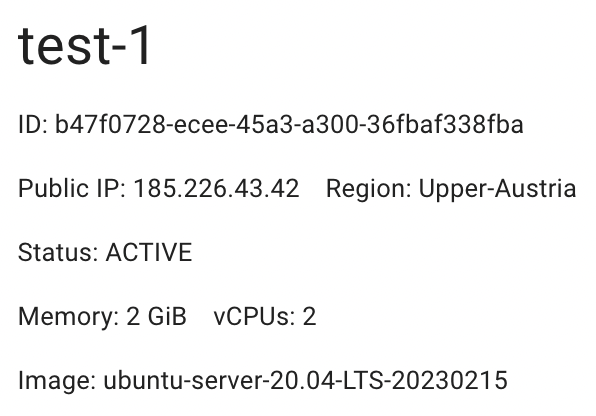
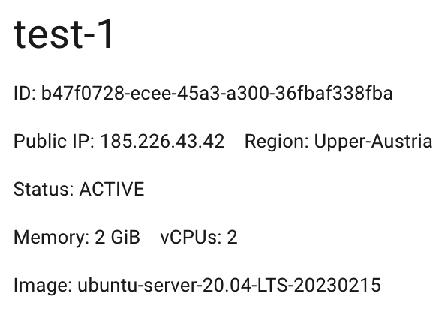
fix img sizes

diff --git a/content/products/compute/virtual-machines.md b/content/products/compute/virtual-machines.md
@@ -52,8 +52,8 @@ To create new Linux VM, do the following:
   - *Key pair* - this field is necessary only for Linux VMs; select here the SSH Key that was previously created on the *SSH Keys page* or create a new one, which you will use to connect to the Linux VM;  
     if you have only one created SSH Key, it will be pre-selected by default;  
   - *Networks* - choose one or more networks;  
-    by default, public network is pre-selected;  
-  - *Firewalls*- choose what collection of network access rules will control the traffic to this VM; 
+    by default, "public" network is pre-selected;  
+  - *Firewalls*- choose what collection of network access rules will control the traffic to this VM;    
     by default, "default" Firewall is pre-selected;  
     default Firewall allows access to the Internet from the VMs, but denies almost all access on the VMs from outside, except for objects belonging to the same default Firewall.  
       >**NOTE:** To connect to the selected **Linux Virtual Machine** remotely via SSH, you need to add an additional Firewall with a rule, that will allow incoming traffic to TCP port 22 (like shown below) - to find additional information about this, please see the article **[Access Linux VM](https://docs.ventuscloud.eu/products/compute/connect-linux-vm/)**;
@@ -83,8 +83,8 @@ To create new Windows VM, do the following:
   - *Password* - this field is necessary only for Windows VMs;come up with the root password (it must contain at least one Latin letter in upper case, one Latin letter in lower case, digit, special character, and must be at least 8 characters long);
   - *Confirm password;*
   - *Networks* - choose one or more networks;  
-    by default, public network is pre-selected;  
-  - *Firewalls*- choose what collection of network access rules will control the traffic to this VM; 
+    by default, "public" network is pre-selected;  
+  - *Firewalls*- choose what collection of network access rules will control the traffic to this VM;   
     by default, "default" Firewall is pre-selected;  
     default Firewall allows access to the Internet from the VMs, but denies almost all access on the VMs from outside, except for objects belonging to the same default Firewall. 
     >**NOTE:** To connect to the selected **Windows Virtual Machine** remotely via RDP you need to add an additional Firewall with a rule that will allow incoming traffic to TCP port 54000 like shown below - to find additional information about this, please see the article **[Access Windows VM](https://docs.ventuscloud.eu/products/compute/connect-windows-vm/)**;
